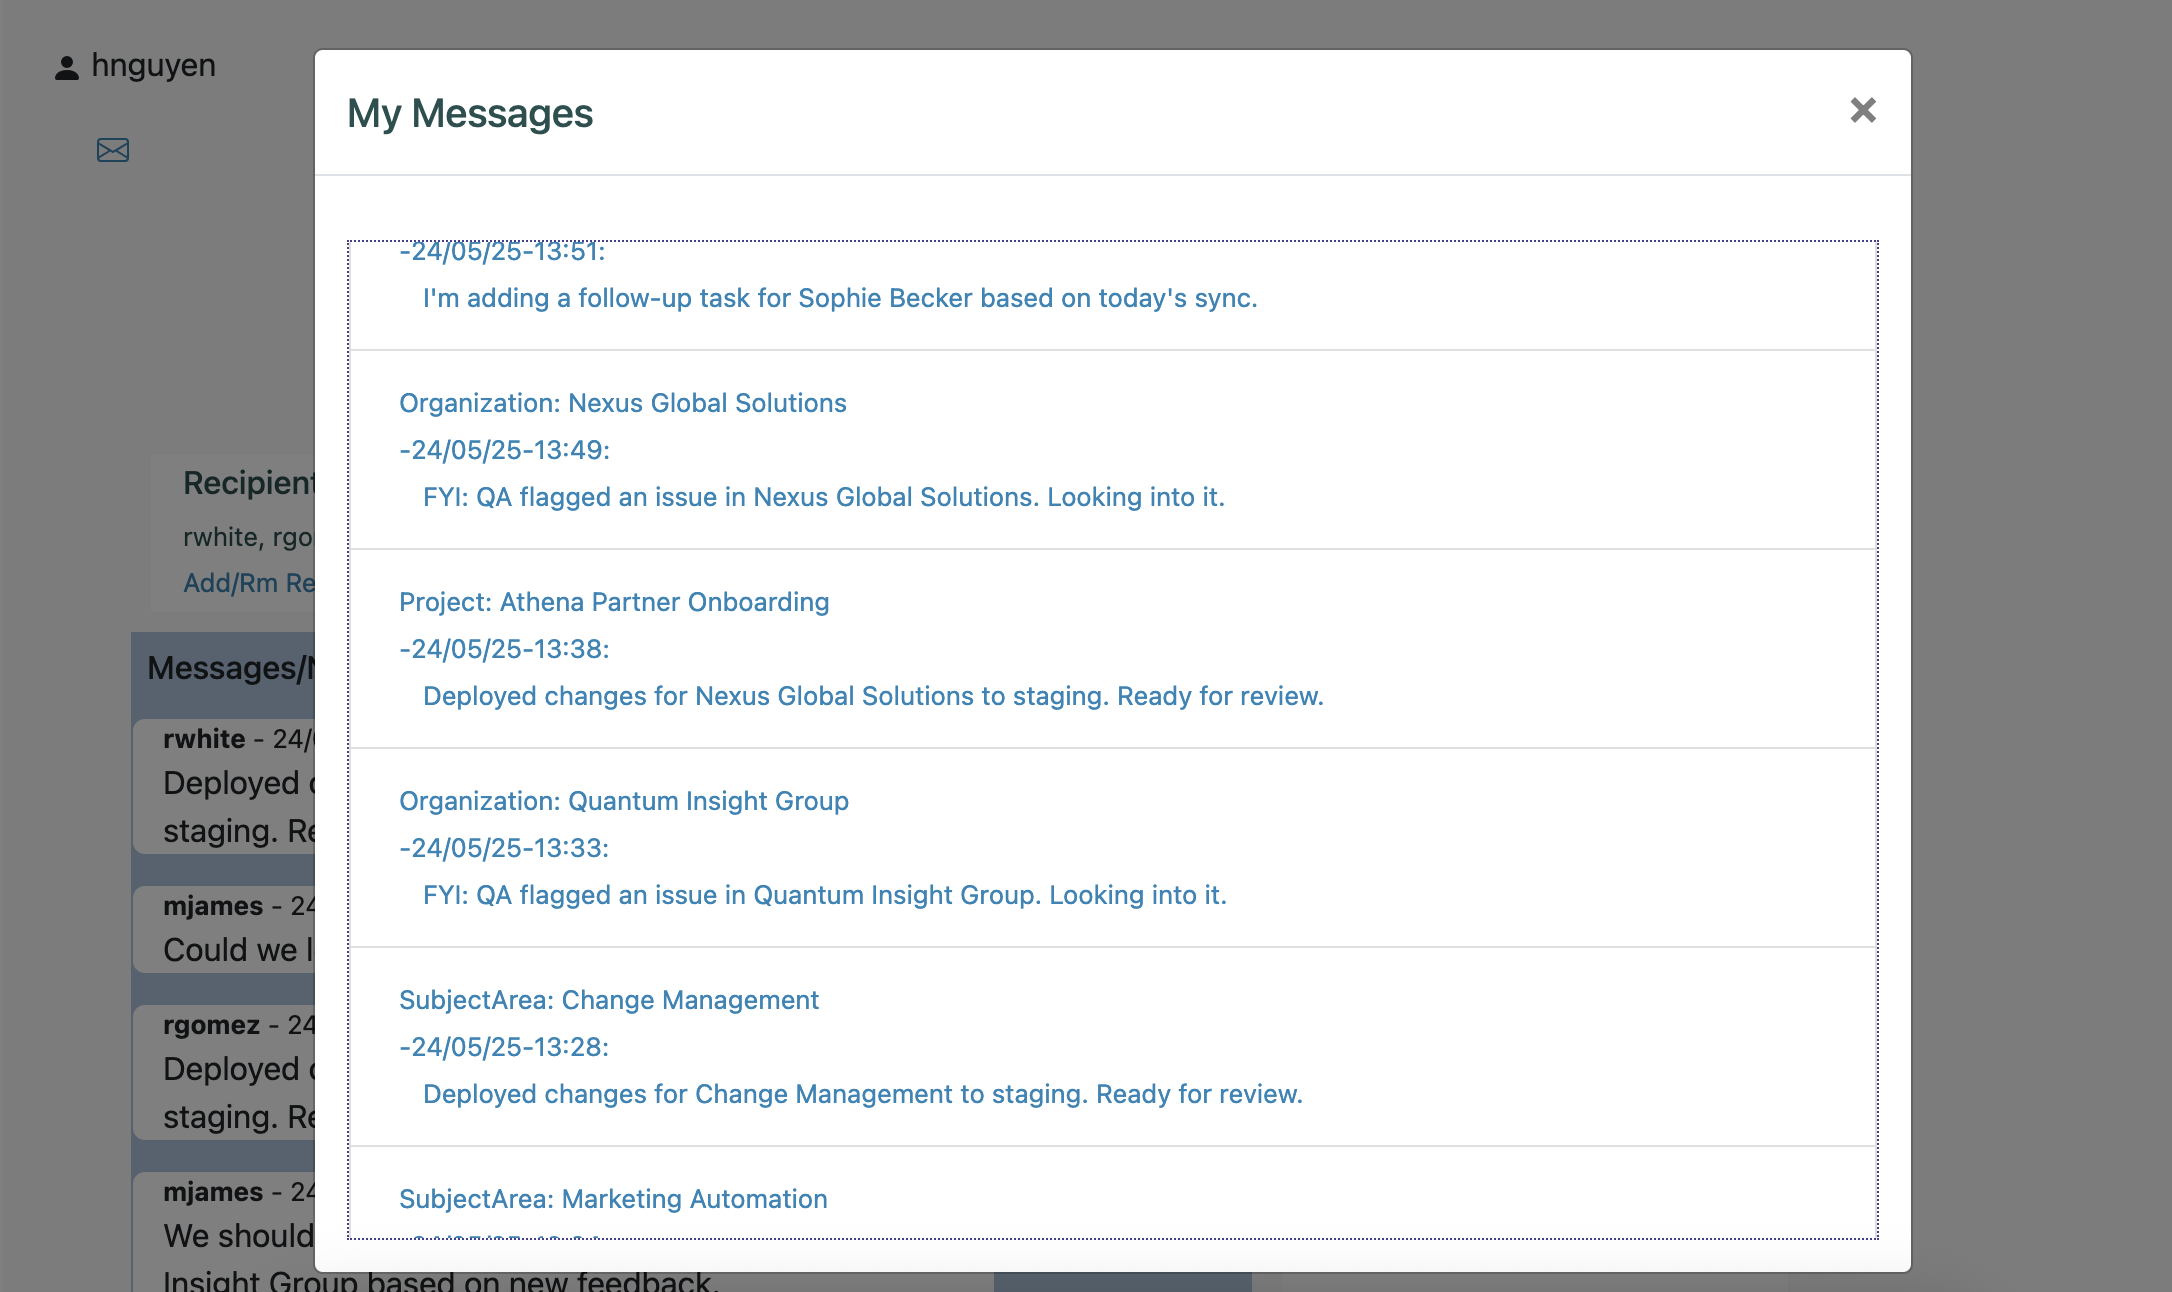
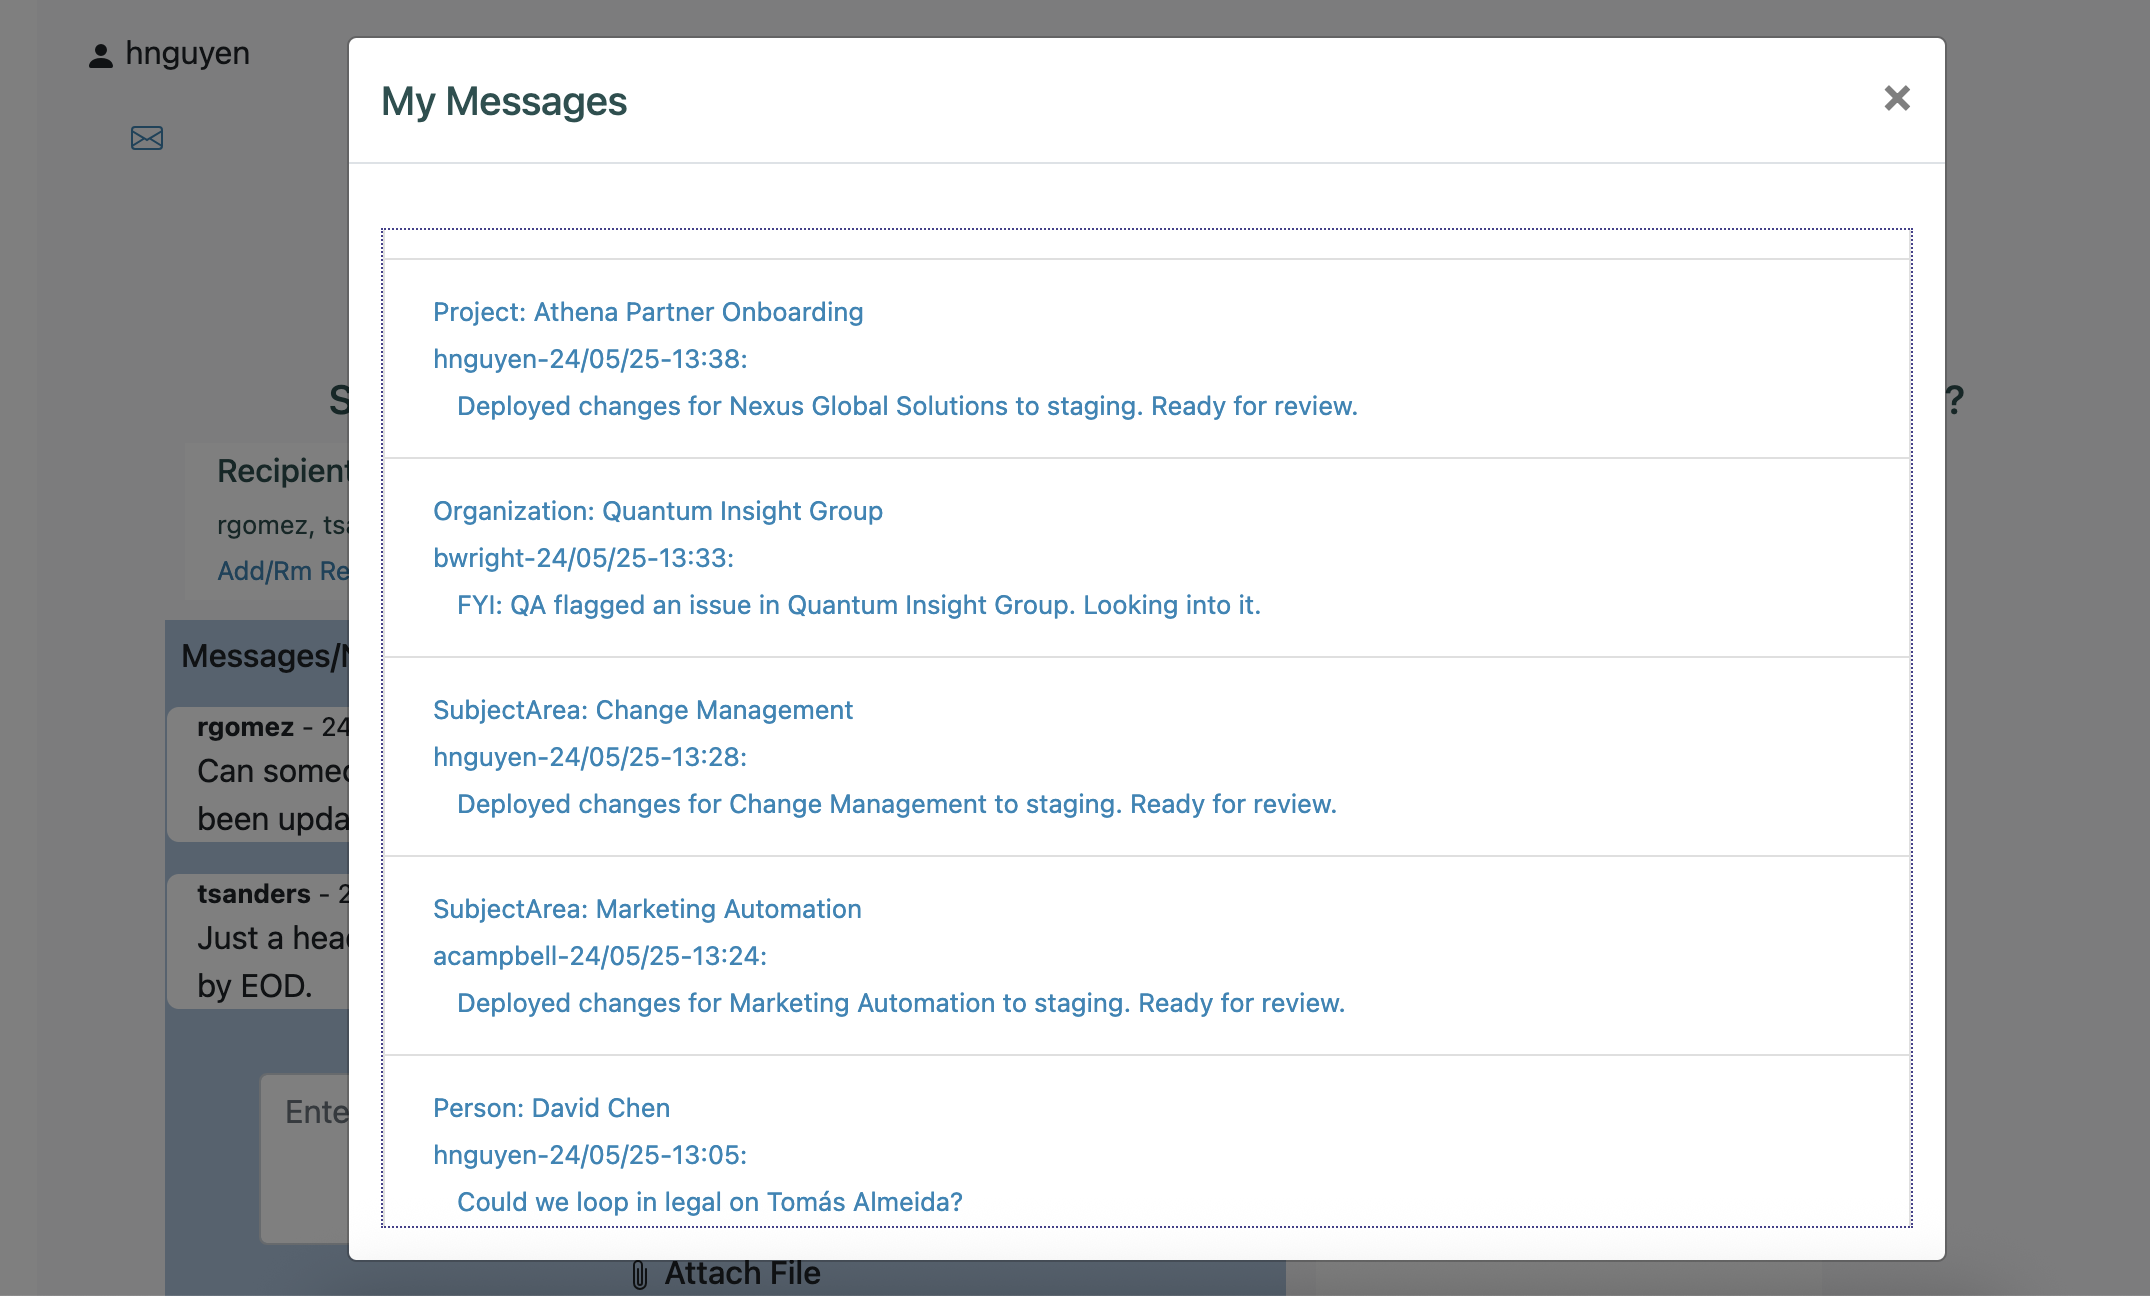
bug fixed in my messages 	modified:   assets/screenshots/mymsgs.png 	modified:   templates/layout.html

diff --git a/templates/layout.html b/templates/layout.html
@@ -35,7 +35,7 @@
 
                             
                             <p class="m-1">{{thread.obj_type}}: {{thread.obj_name}}</p>
-                            <p class="m-1">{{thread.lastm.user.username}}-{{thread.lastm.time.strftime("%d/%m/%y-%H:%M")}}:</p>
+                            <p class="m-1">{{thread.lastm.user.name}}-{{thread.lastm.time.strftime("%d/%m/%y-%H:%M")}}:</p>
                             <p class="m-1 ml-3">{{thread.lastm.message[:150]}}</p>
 
                             {% if session.user.userid in unread_ids %} </b> {% endif %}  
